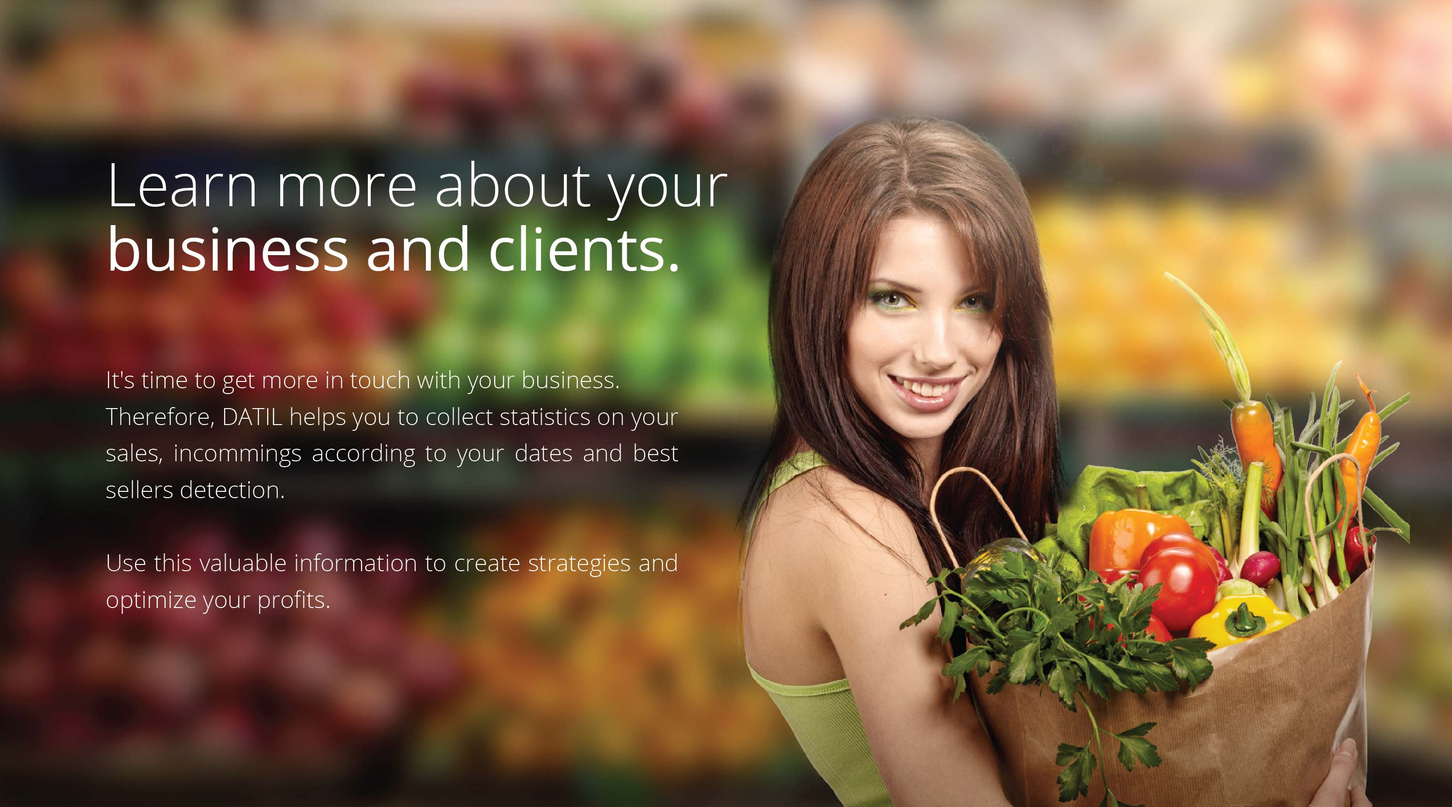
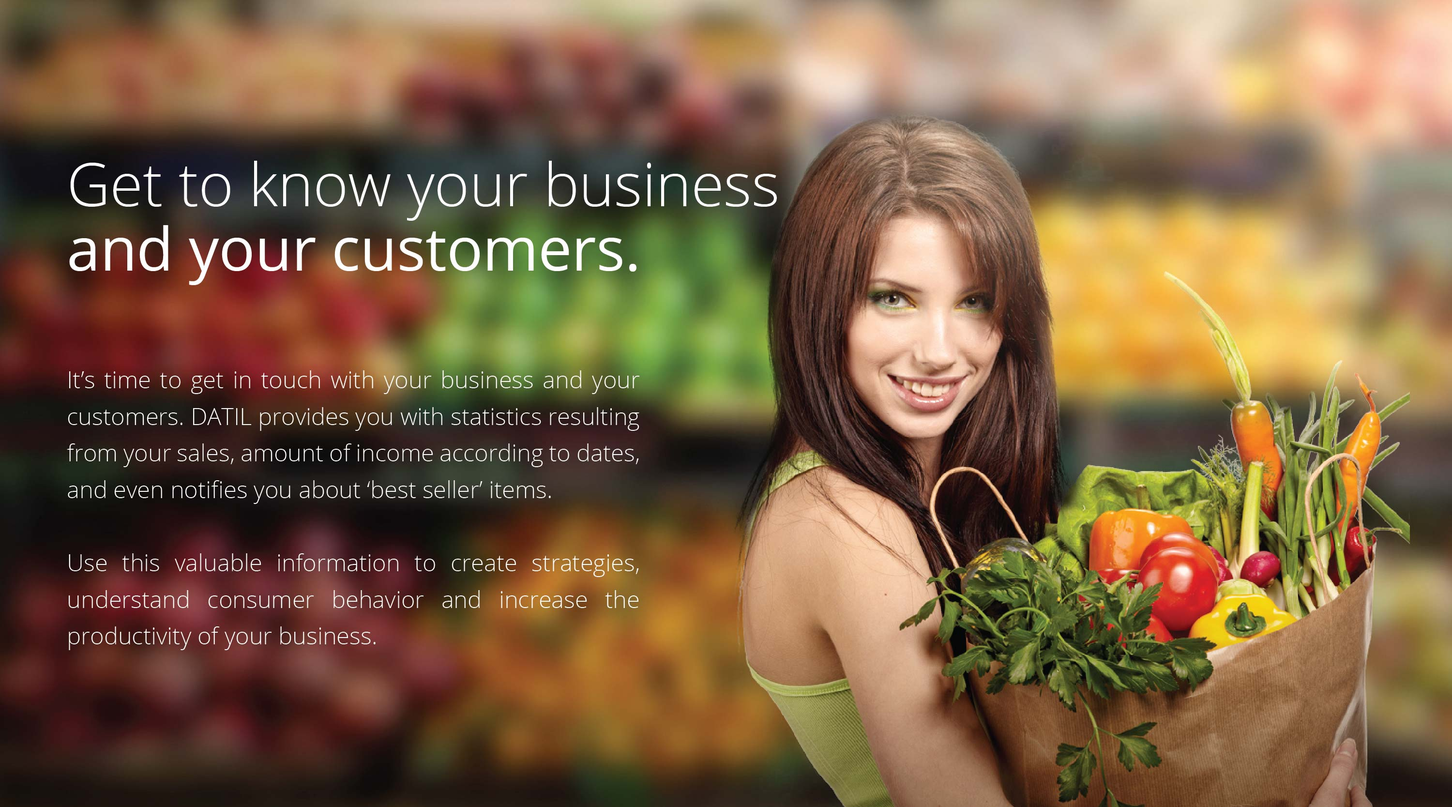
translations

diff --git a/public/en/index.html b/public/en/index.html
@@ -1,9 +1,9 @@
-<!DOCTYPE html> <html lang=en> <head> <meta charset=utf-8> <meta http-equiv=X-UA-Compatible content="IE=edge"> <meta name=viewport content="width=device-width,initial-scale=1,maximum-scale=1,user-scalable=no"> <meta name=description content="Dátil es la aplicación móvil de punto de venta que se adapta a tu modelo de negocio y te ayuda a incrementar la productividad desde el poder de tus dedos."> <meta name=keywords content="POS, dinero electrónico, facturación electrónica"> <meta name=author content=Datilmedia> <link rel=icon href=/c4b85505.favicon.ico> <link rel=apple-touch-icon-precomposed sizes=152x152 href=d6cbdb46.favicon152.png> <link rel=apple-touch-icon-precomposed sizes=144x144 href=309c4e23.favicon144.png> <link rel=apple-touch-icon-precomposed sizes=114x114 href=6b8e0709.favicon114.png> <link rel=apple-touch-icon-precomposed sizes=72x72 href=41bae59d.favicon72.png> <link rel=apple-touch-icon-precomposed href=e4ee2d5f.favicon.png> <title>Datil - POS for credit card payments, electronic invoices</title> <link rel=stylesheet href=styles/9c307a9d.vendor.css> <link rel=stylesheet href=styles/34619d56.main.css> <!-- Just for debugging purposes. Don't actually copy these 2 lines! --> <!--[if lt IE 9]><script src="scripts/ie8-responsive-file-warning.js"></script><![endif]--> <script src=scripts/5e4d24d2.ie.js></script> <!-- HTML5 shim and Respond.js IE8 support of HTML5 elements and media queries --> <!--[if lt IE 9]>
+<!DOCTYPE html> <html lang=en> <head> <meta charset=utf-8> <meta http-equiv=X-UA-Compatible content="IE=edge"> <meta name=viewport content="width=device-width,initial-scale=1,maximum-scale=1,user-scalable=no"> <meta name=description content="Dátil es la aplicación móvil de punto de venta que se adapta a tu modelo de negocio y te ayuda a incrementar la productividad desde el poder de tus dedos."> <meta name=keywords content="POS, dinero electrónico, facturación electrónica"> <meta name=author content=Datilmedia> <link rel=icon href=/c4b85505.favicon.ico> <link rel=apple-touch-icon-precomposed sizes=152x152 href=d6cbdb46.favicon152.png> <link rel=apple-touch-icon-precomposed sizes=144x144 href=309c4e23.favicon144.png> <link rel=apple-touch-icon-precomposed sizes=114x114 href=6b8e0709.favicon114.png> <link rel=apple-touch-icon-precomposed sizes=72x72 href=41bae59d.favicon72.png> <link rel=apple-touch-icon-precomposed href=e4ee2d5f.favicon.png> <title>Datil - Grow your business</title> <link rel=stylesheet href=styles/9c307a9d.vendor.css> <link rel=stylesheet href=styles/34619d56.main.css> <!-- Just for debugging purposes. Don't actually copy these 2 lines! --> <!--[if lt IE 9]><script src="scripts/ie8-responsive-file-warning.js"></script><![endif]--> <script src=scripts/5e4d24d2.ie.js></script> <!-- HTML5 shim and Respond.js IE8 support of HTML5 elements and media queries --> <!--[if lt IE 9]>
       <script src="https://oss.maxcdn.com/html5shiv/3.7.2/html5shiv.min.js"></script>
       <script src="https://oss.maxcdn.com/respond/1.4.2/respond.min.js"></script>
     <![endif]-->  <body> <!--[if lt IE 10]>
       <p class="browsehappy">You are using an <strong>outdated</strong> browser. Please <a href="http://browsehappy.com/">upgrade your browser</a> to improve your experience.</p>
-    <![endif]--> <div class="navbar navbar-default navbar-fixed-top nav-datil" role=navigation> <div class=container> <div class=navbar-header> <button type=button class="navbar-toggle collapsed" data-toggle=collapse data-target=.navbar-collapse> <span class=sr-only>Toggle navigation</span> <span class=icon-bar></span> <span class=icon-bar></span> <span class=icon-bar></span> </button> <img class=logo src=images/8d034bd5.logo.png alt=datil> </div> <div class="navbar-collapse collapse single-page-nav"> <ul class="nav navbar-nav navbar-right"> <li><a href="/?force=true" class=lan>Español</a></li> <li><a href=#content>Features</a></li> <li><a href=#datil-smartphone>Compatibility</a></li> <li><a href=#contacto>Contact</a></li> </ul> </div> </div> </div> <div class=jumbotron> <div class=container> <div class=row> <div class=col-md-5> </div> <div class="banner-text col-md-7"> <h1>Take your business</h1> <h1>to the next level</h1> <p>Dátil is a mobile point of sale that fits your business model and helps you to increase productivity from the power of your fingers.</p> </div> </div> </div> </div> <div id=content class="container text-center servicios"> <div class=row> <div class="col-md-3 col-sm-6"> <img src=images/services/cb87c014.icono_factura.png alt=""> <h3><strong>Billing and invoice</strong> electronically</h3> <hr> <p>Make and send invoices to your customers emails without printing.</p> </div> <div class="col-md-3 col-sm-6"> <img src=images/services/bde19334.icono_dinero_electronico.png alt=""> <h3><strong>More possibilities</strong> for your clients</h3> <hr> <p>Bill with cash, credit card or e-money from your mobile phone.</p> </div> <div class="col-md-3 col-sm-6"> <img src=images/services/bc3fea18.icono_listas_productos.png alt=""> <h3><strong>Take control</strong> of your products</h3> <hr> <p>Organize all your items in lists with price and tax details.</p> </div> <div class="col-md-3 col-sm-6"> <img src=images/services/e55f7bde.icono_estadisticas.png alt=""> <h3><strong>Learn more</strong> about your business</h3> <hr> <p>Get statistics and valuable information about your sales, products and customers.</p> </div> </div> </div> <div id=datil-ventas class=details> <div class=container> <div class=row> <div class="col-md-5 col-sm-5 col-md-push-7 text-justify"> <h2>Make your sales <strong>in a easier way.</strong></h2> <p>The application enables you to execute any product sale in easy steps that take just a few taps with your finger.</p> <p>Choose your products from your list, they will be stored in the shopping cart and confirm the sale with your customer with a payment method and presto!</p> <hr> </div> <div class="col-md-7 col-sm-7 col-md-pull-5"> <img class="img-responsive center-block" src=images/4e180064.mano_app_cobro.png> </div> </div> </div> </div> <div id=datil-facturas class="container details"> <div class=row> <div class="col-md-5 col-sm-5 text-justify"> <h2>Manage your invoices <strong>like never before</strong></h2> <p>DATIL has a electronic invoice system for a integral experience for your clients at shopping time.</p> <p>They will receive your invoices via email in a secure way and complying with the 'Servicio de Rentas Internas' requirements.</p> <hr> </div> <div class="col-md-7 col-sm-7"> <img class="img-responsive center-block" src=images/7834dd3d.factura_mail.png> </div> </div> </div> <div id=datil-clientes class=details> <div class=container> <div class=row> <div class="col-md-5 col-sm-5 col-md-push-7 text-justify"> <h2>More possibilities <strong>for your clients.</strong></h2> <p>Give your clients more alternatives at the payment process and they will have a lovely shopping experience. The platform allows you to make and register cash or credit card payments.</p> <p>Futhermore, we provide the new system for e-money payments powered by 'The Central Bank of Ecuador', a secure, easy-to-use and market-cheap payment method. Thus, your clients will have a bunch of payment options at shopping time.</p> <hr> </div> <div class="col-md-7 col-sm-7 col-md-pull-5"> <img class="img-responsive center-block" src=images/6aaef33c.clientes.png> </div> </div> </div> </div> <div id=datil-productos class="container details"> <div class=row> <div class="col-md-5 col-sm-5 text-justify"> <h2>Take total control <strong>of your products.</strong></h2> <p>Create an organized and detailed list of all your products to manage your business more easily and order.</p> <p>Add articles with name, color, price and a photo, then they will be quickly identified when you are making a sale.</p> <hr> </div> <div class="col-md-7 col-sm-7"> <img class="img-responsive center-block" src=images/51d9e543.pantalla_listas.png> </div> </div> </div> <div id=datil-clientes class="jumbotron hidden-xs"> <img class=img-responsive src=images/4b77f6f9.banner_cliente.jpg alt=""> </div> <div id=datil-smartphone class=details> <div class=container> <div class=row> <div class="col-md-5 col-sm-5 col-md-push-7 text-justify"> <h2>DATIL in my <strong>smartphone.</strong></h2> <p>Even the simpler smartphone has the possibility DATIL without any inconvenience.</p> <p>The application is developed to work in Android phones and coming soon to iOS and tablets.</p> <hr> </div> <div class="col-md-7 col-sm-7 col-md-pull-5"> <img class="img-responsive center-block" src=images/71fc4778.phone_compatibility.png> </div> </div> </div> </div> <div id=acerca> <div class="container text-center"> <div class="info center-block"> <h2>DATIL Experience</h2> <img src=images/64bba164.cuadros_testimonios.jpg alt="" class="img-responsive center-block"> </div> </div> </div> <div id=equipo> <div class="container text-center"> <h2>Meet the team behind DATIL</h2> <div class="row center-block people"> <div class="col-md-2 col-sm-2"></div> <div class="col-md-2 col-sm-2"> <img src=images/team/7e513cf5.Eduardo.jpg class="img-responsive center-block"> <h5>Eduardo Raad</h5> <h6>CEO</h6> </div> <div class="col-md-2 col-sm-2"> <img src=images/team/5584efde.Chalo.jpg class="img-responsive center-block"> <h5>Carlos Pareja</h5> <h6>COO</h6> </div> <div class="col-md-2 col-sm-2"> <img src=images/team/42431744.Juan_Antonio.jpg class="img-responsive center-block"> <h5>Juan Antonio Plaza</h5> <h6>CTO</h6> </div> <div class="col-md-2 col-sm-2"> <img src=images/team/e9e31a52.Andres.jpg class="img-responsive center-block"> <h5>Andrés Mesías</h5> <h6>CCO</h6> </div> <div class="col-md-2 col-sm-2"></div> </div> <div class="row center-block people"> <div class="col-md-1 col-sm-1"></div> <div class="col-md-2 col-sm-2"> <img src=images/team/b2af7d69.Melissa.jpg class="img-responsive center-block"> <h5>Melissa Castro</h5> <h6>Project Manager</h6> </div> <div class="col-md-2 col-sm-2"> <img src=images/team/a258e5b0.July.jpg class="img-responsive center-block"> <h5>Juliana Toala</h5> <h6>Operation Manager</h6> </div> <div class="col-md-2 col-sm-2"> <img src=images/team/d8900463.Alejo.jpg class="img-responsive center-block"> <h5>Alejandro Vinueza</h5> <h6>Software Engineer</h6> </div> <div class="col-md-2 col-sm-2"> <img src=images/team/2a54d757.Joseph.jpg class="img-responsive center-block"> <h5>Joseph León</h5> <h6>Software Engineer</h6> </div> <div class="col-md-2 col-sm-2"> <img src=images/team/d4b952ce.Carlos.jpg class="img-responsive center-block"> <h5>Carlos Minda</h5> <h6>Infrastructure Engineer</h6> </div> <div class="col-md-1 col-sm-1"></div> </div> <div class="row center-block about-datil"> <div class="col-md-6 col-sm-6"> <img src=images/809ac364.logo-footer.png class=img-responsive> </div> <div class="col-md-6 col-sm-6 text-justify"> <p>We are an ecuadorian company committed to the growth of the micro, small and medium enterprises by facilitating access to new payment methods and management tools.</p> </div> </div> <hr> </div> </div> <!-- Begin MailChimp Signup Form --> <div id=contacto class=container> <div class="row text-center"> <h3>Do you want to know more? Subscribe to our newsletter</h3> <h4>Don't worry, we won't send you spam!</h4> </div> <form action="//datil.us9.list-manage.com/subscribe/post?u=d97a77d468b8fc15e17172ae8&amp;id=a079067140" method=post id=mc-embedded-subscribe-form name=mc-embedded-subscribe-form class=validate target=_blank role=form novalidate> <div id=mc_embed_signup_scroll class="row form-group"> <div class="mc-field-group col-md-12 text-center"> <label for=mce-EMAIL>Email Address </label> <input type=email name=EMAIL class="required email" id=mce-EMAIL> <input type=submit value=Subscribe name=subscribe id=mc-embedded-subscribe class="button btn btn-datil"> </div> <div id=mce-responses class=clear> <div class=response id=mce-error-response style=display:none></div> <div class=response id=mce-success-response style=display:none></div> </div> <!-- real people should not fill this in and expect good things - do not remove this or risk form bot signups--> <div style="position: absolute; left: -5000px"><input name=b_d97a77d468b8fc15e17172ae8_a079067140 tabindex=-1></div> <div class=clear></div> </div> </form> </div> <!--End mc_embed_signup--> <footer> <div class=container> <div class=row> <div class="col-md-12 center-block text-center"> <h4>Contact</h4> <hr> </div> </div> <div class=row> <div class=col-md-6> <p>+593 - 4 - 6029400</p> <p>Víctor Emilio Estrada 112 y Circunvalación</p> <p>Norte, Edificio C3, Piso 2</p> <p><strong>Guayaquil - Ecuador</strong></p> </div> <div class="col-md-6 text-right"> <a href=#><img src=images/06131002.twitter-datil.png></a> <a href=https://www.facebook.com/datilmedia target=_blank><img src=images/d4f3fe2a.facebook-datil.png></a> <p>2014 DATIL</p> </div> </div> </div> </footer> <script src=scripts/db02b173.vendor.js></script> <!-- Google Analytics: change UA-XXXXX-X to be your site's ID. --> <script>(function(b,o,i,l,e,r){b.GoogleAnalyticsObject=l;b[l]||(b[l]=
+    <![endif]--> <div class="navbar navbar-default navbar-fixed-top nav-datil" role=navigation> <div class=container> <div class=navbar-header> <button type=button class="navbar-toggle collapsed" data-toggle=collapse data-target=.navbar-collapse> <span class=sr-only>Toggle navigation</span> <span class=icon-bar></span> <span class=icon-bar></span> <span class=icon-bar></span> </button> <img class=logo src=images/8d034bd5.logo.png alt=datil> </div> <div class="navbar-collapse collapse single-page-nav"> <ul class="nav navbar-nav navbar-right"> <li><a href="/?force=true" class=lan>Español</a></li> <li><a href=#content>Features</a></li> <li><a href=#datil-smartphone>Compatibility</a></li> <li><a href=#contacto>Contact</a></li> </ul> </div> </div> </div> <div class=jumbotron> <div class=container> <div class=row> <div class=col-md-5> </div> <div class="banner-text col-md-7"> <h1>Power-up your</h1> <h1>business now!</h1> <p>Meet the mobil ‘Point Of Sale’ app, ready to enhance your business in a glance. Start increasing your productivity today and take control from the palm of your hand.</p> </div> </div> </div> </div> <div id=content class="container text-center servicios"> <div class=row> <div class="col-md-3 col-sm-6"> <img src=images/services/cb87c014.icono_factura.png alt=""> <h3><strong>Payments and billing</strong> using your app</h3> <hr> <p>Manage billing through your phone and send invoices by e-mail without printing.</p> </div> <div class="col-md-3 col-sm-6"> <img src=images/services/bde19334.icono_dinero_electronico.png alt=""> <h3><strong>Customers seek</strong> for more possibilities</h3> <hr> <p>You’ll be able to charge your customers with cash, credit card or even e-money.</p> </div> <div class="col-md-3 col-sm-6"> <img src=images/services/bc3fea18.icono_listas_productos.png alt=""> <h3><strong>Absolut control</strong> of your products</h3> <hr> <p>Make a whole new organization of your productos by using lists with pricing and taxes.</p> </div> <div class="col-md-3 col-sm-6"> <img src=images/services/e55f7bde.icono_estadisticas.png alt=""> <h3><strong>Know your business</strong> even more</h3> <hr> <p>Obtain statistics and valuable information out your sales, about products and consumer behavior. </p> </div> </div> </div> <div id=datil-ventas class=details> <div class=container> <div class=row> <div class="col-md-5 col-sm-5 col-md-push-7 text-justify"> <h2>Simplify <strong>your sales.</strong></h2> <p>The application enables you to execute any product sale in easy steps that take just a few taps with your finger.</p> <p>Choose products from your list, add them to the basket button and then just charge your customer. That’s it!</p> <hr> </div> <div class="col-md-7 col-sm-7 col-md-pull-5"> <img class="img-responsive center-block" src=images/4e180064.mano_app_cobro.png> </div> </div> </div> </div> <div id=datil-facturas class="container details"> <div class=row> <div class="col-md-5 col-sm-5 text-justify"> <h2>Invoice your <strong>customers easily.</strong></h2> <p>Make government compliant invoices with a single tap. Just fill out the information and DATIL takes care of the rest.</p> <p>Your customers will receive their invoices and receipts through their e-mail account in a very secure way.</p> <hr> </div> <div class="col-md-7 col-sm-7"> <img class="img-responsive center-block" src=images/7834dd3d.factura_mail.png> </div> </div> </div> <div id=datil-clientes class=details> <div class=container> <div class=row> <div class="col-md-5 col-sm-5 col-md-push-7 text-justify"> <h2>More payment options <strong>for your clients.</strong></h2> <p>Give your customers the power to choose how they want to pay. Receive payments in a secure way using credit cards, cash and Ecuadorian e-Money.</p> <hr> </div> <div class="col-md-7 col-sm-7 col-md-pull-5"> <img class="img-responsive center-block" src=images/6aaef33c.clientes.png> </div> </div> </div> </div> <div id=datil-productos class="container details"> <div class=row> <div class="col-md-5 col-sm-5 text-justify"> <h2>Organize <strong>your products.</strong></h2> <p>Create an organized and detailed list of all your products.</p> <p>Add your items with name, price, color and photo to identify them quickly during a sale.</p> <hr> </div> <div class="col-md-7 col-sm-7"> <img class="img-responsive center-block" src=images/51d9e543.pantalla_listas.png> </div> </div> </div> <div id=datil-clientes class="jumbotron hidden-xs"> <img class=img-responsive src=images/3b921e80.banner_cliente.jpg alt=""> </div> <div id=datil-smartphone class=details> <div class=container> <div class=row> <div class="col-md-5 col-sm-5 col-md-push-7 text-justify"> <h2>My DATIL app<strong> everywhere.</strong></h2> <p>DATIL works in all Android phones and is designed to accept payments even if you have a slow data connection.</p> <p>iOS support for DATIL i cooming soon.</p> <hr> </div> <div class="col-md-7 col-sm-7 col-md-pull-5"> <img class="img-responsive center-block" src=images/71fc4778.phone_compatibility.png> </div> </div> </div> </div> <div id=acerca> <div class="container text-center"> <div class="info center-block"> <h2>DATIL Experience</h2> <img src=images/64bba164.cuadros_testimonios.jpg alt="" class="img-responsive center-block"> </div> </div> </div> <div id=equipo> <div class="container text-center"> <h2>Meet the team behind DATIL</h2> <div class="row center-block people"> <div class="col-md-2 col-sm-2"></div> <div class="col-md-2 col-sm-2"> <img src=images/team/7e513cf5.Eduardo.jpg class="img-responsive center-block"> <h5>Eduardo Raad</h5> <h6>CEO</h6> </div> <div class="col-md-2 col-sm-2"> <img src=images/team/5584efde.Chalo.jpg class="img-responsive center-block"> <h5>Carlos Pareja</h5> <h6>COO</h6> </div> <div class="col-md-2 col-sm-2"> <img src=images/team/42431744.Juan_Antonio.jpg class="img-responsive center-block"> <h5>Juan Antonio Plaza</h5> <h6>CTO</h6> </div> <div class="col-md-2 col-sm-2"> <img src=images/team/e9e31a52.Andres.jpg class="img-responsive center-block"> <h5>Andrés Mesías</h5> <h6>CCO</h6> </div> <div class="col-md-2 col-sm-2"></div> </div> <div class="row center-block people"> <div class="col-md-1 col-sm-1"></div> <div class="col-md-2 col-sm-2"> <img src=images/team/b2af7d69.Melissa.jpg class="img-responsive center-block"> <h5>Melissa Castro</h5> <h6>Project Manager</h6> </div> <div class="col-md-2 col-sm-2"> <img src=images/team/a258e5b0.July.jpg class="img-responsive center-block"> <h5>Juliana Toala</h5> <h6>Operation Manager</h6> </div> <div class="col-md-2 col-sm-2"> <img src=images/team/d8900463.Alejo.jpg class="img-responsive center-block"> <h5>Alejandro Vinueza</h5> <h6>Software Engineer</h6> </div> <div class="col-md-2 col-sm-2"> <img src=images/team/2a54d757.Joseph.jpg class="img-responsive center-block"> <h5>Joseph León</h5> <h6>Software Engineer</h6> </div> <div class="col-md-2 col-sm-2"> <img src=images/team/d4b952ce.Carlos.jpg class="img-responsive center-block"> <h5>Carlos Minda</h5> <h6>Infrastructure Engineer</h6> </div> <div class="col-md-1 col-sm-1"></div> </div> <div class="row center-block about-datil"> <div class="col-md-6 col-sm-6"> <img src=images/809ac364.logo-footer.png class=img-responsive> </div> <div class="col-md-6 col-sm-6 text-justify"> <p>We are an ecuadorian company committed to the growth of the micro, small and medium enterprises by facilitating access to new payment methods and management tools.</p> </div> </div> <hr> </div> </div> <!-- Begin MailChimp Signup Form --> <div id=contacto class=container> <div class="row text-center"> <h3>Do you want to know more? Subscribe to our newsletter</h3> <h4>Don't worry, we won't send you spam!</h4> </div> <form action="//datil.us9.list-manage.com/subscribe/post?u=d97a77d468b8fc15e17172ae8&amp;id=a079067140" method=post id=mc-embedded-subscribe-form name=mc-embedded-subscribe-form class=validate target=_blank role=form novalidate> <div id=mc_embed_signup_scroll class="row form-group"> <div class="mc-field-group col-md-12 text-center"> <label for=mce-EMAIL>Email Address </label> <input type=email name=EMAIL class="required email" id=mce-EMAIL> <input type=submit value=Subscribe name=subscribe id=mc-embedded-subscribe class="button btn btn-datil"> </div> <div id=mce-responses class=clear> <div class=response id=mce-error-response style=display:none></div> <div class=response id=mce-success-response style=display:none></div> </div> <!-- real people should not fill this in and expect good things - do not remove this or risk form bot signups--> <div style="position: absolute; left: -5000px"><input name=b_d97a77d468b8fc15e17172ae8_a079067140 tabindex=-1></div> <div class=clear></div> </div> </form> </div> <!--End mc_embed_signup--> <footer> <div class=container> <div class=row> <div class="col-md-12 center-block text-center"> <h4>Contact</h4> <hr> </div> </div> <div class=row> <div class=col-md-6> <p>+593 - 4 - 6029400</p> <p>Víctor Emilio Estrada 112 y Circunvalación</p> <p>Norte, Edificio C3, Piso 2</p> <p><strong>Guayaquil - Ecuador</strong></p> </div> <div class="col-md-6 text-right"> <a href=#><img src=images/06131002.twitter-datil.png></a> <a href=https://www.facebook.com/datilmedia target=_blank><img src=images/d4f3fe2a.facebook-datil.png></a> <p>2014 DATIL</p> </div> </div> </div> </footer> <script src=scripts/db02b173.vendor.js></script> <!-- Google Analytics: change UA-XXXXX-X to be your site's ID. --> <script>(function(b,o,i,l,e,r){b.GoogleAnalyticsObject=l;b[l]||(b[l]=
       function(){(b[l].q=b[l].q||[]).push(arguments)});b[l].l=+new Date;
       e=o.createElement(i);r=o.getElementsByTagName(i)[0];
       e.src='//www.google-analytics.com/analytics.js';

diff --git a/en/app/index.html b/en/app/index.html
@@ -16,7 +16,7 @@
     <link rel="apple-touch-icon-precomposed" sizes="72x72" href="favicon72.png">
     <link rel="apple-touch-icon-precomposed" href="favicon.png">
 
-    <title>Datil - POS for credit card payments, electronic invoices</title>
+    <title>Datil - Grow your business</title>
 
     <!-- build:css(.) styles/vendor.css -->
     <!-- bower:css -->
@@ -73,12 +73,11 @@
       <div class="container">
         <div class="row">
            <div class="col-md-5">
-            
            </div>
            <div class="banner-text col-md-7">
-              <h1>Take your business</h1>
-              <h1>to the next level</h1>
-              <p>Dátil is a mobile point of sale that fits your business model and helps you to increase productivity from the power of your fingers.</p> 
+              <h1>Power-up your</h1>
+              <h1>business now!</h1>
+              <p>Meet the mobil ‘Point Of Sale’ app, ready to enhance your business in a glance. Start increasing your productivity today and take control from the palm of your hand.</p> 
            </div>
         </div>
         
@@ -89,27 +88,27 @@
       <div class="row">
         <div class="col-md-3 col-sm-6">
           <img src="images/services/icono_factura.png" alt="">
-          <h3><strong>Billing and invoice</strong> electronically</h3>
+          <h3><strong>Payments and billing</strong> using your app</h3>
           <hr>
-          <p>Make and send invoices to your customers emails without printing.</p>
+          <p>Manage billing through your phone and send invoices by e-mail without printing.</p>
         </div>
         <div class="col-md-3 col-sm-6">
           <img src="images/services/icono_dinero_electronico.png" alt="">
-          <h3><strong>More possibilities</strong> for your clients</h3>
+          <h3><strong>Customers seek</strong> for more possibilities</h3>
           <hr>
-          <p>Bill with cash, credit card or e-money from your mobile phone.</p>
+          <p>You’ll be able to charge your customers with cash, credit card or even e-money.</p>
         </div>
         <div class="col-md-3 col-sm-6">
           <img src="images/services/icono_listas_productos.png" alt="">
-          <h3><strong>Take control</strong> of your products</h3>
+          <h3><strong>Absolut control</strong> of your products</h3>
           <hr>
-          <p>Organize all your items in lists with price and tax details.</p>
+          <p>Make a whole new organization of your productos by using lists with pricing and taxes.</p>
        </div>
         <div class="col-md-3 col-sm-6">
           <img src="images/services/icono_estadisticas.png" alt="">
-          <h3><strong>Learn more</strong> about your business</h3>
+          <h3><strong>Know your business</strong> even more</h3>
           <hr>
-          <p>Get statistics and valuable information about your sales, products and customers.</p>
+          <p>Obtain statistics and valuable information out your sales, about products and consumer behavior. </p>
         </div>
 
       </div>
@@ -119,9 +118,9 @@
     <div class="container">
       <div class="row">
         <div class="col-md-5 col-sm-5 col-md-push-7 text-justify">
-          <h2>Make your sales <strong>in a easier way.</strong></h2>
+          <h2>Simplify <strong>your sales.</strong></h2>
           <p>The application enables you to execute any product sale in easy steps that take just a few taps with your finger.</p>
-          <p>Choose your products from your list, they will be stored in the shopping cart and confirm the sale with your customer with a payment method and presto!</p>
+          <p>Choose products from your list, add them to the basket button and then just charge your customer. That’s it!</p>
           <hr>
         </div>
         <div class="col-md-7 col-sm-7 col-md-pull-5">
@@ -134,11 +133,10 @@
     <div id="datil-facturas" class="container details">
       <div class="row">
         <div class="col-md-5 col-sm-5 text-justify">
-          <h2>Manage your invoices <strong>like never before</strong></h2>
-          <p>DATIL has a electronic invoice system for a integral experience for your clients at shopping time.</p>
-          <p>They will receive your invoices via email in a secure way and complying with the 'Servicio de Rentas Internas' requirements.</p>
-          <hr>
-      
+          <h2>Invoice your <strong>customers easily.</strong></h2>
+          <p>Make government compliant invoices with a single tap. Just fill out the information and DATIL takes care of the rest.</p>
+          <p>Your customers will receive their invoices and receipts through their e-mail account in a very secure way.</p>
+          <hr>     
         </div>
         <div class="col-md-7 col-sm-7">
           <img class="img-responsive center-block" src="images/factura_mail.png">
@@ -150,9 +148,8 @@
     <div class="container">
       <div class="row">
         <div class="col-md-5 col-sm-5 col-md-push-7 text-justify">
-          <h2>More possibilities <strong>for your clients.</strong></h2>
-          <p>Give your clients more alternatives at the payment process and they will have a lovely shopping experience. The platform allows you to make and register cash or credit card payments.</p>
-          <p>Futhermore, we provide the new system for e-money payments powered by 'The Central Bank of Ecuador', a secure, easy-to-use and market-cheap payment method. Thus, your clients will have a bunch of payment options at shopping time.</p>
+          <h2>More payment options <strong>for your clients.</strong></h2>
+          <p>Give your customers the power to choose how they want to pay. Receive payments in a secure way using credit cards, cash and Ecuadorian e-Money.</p>
           <hr>
         </div>
         <div class="col-md-7 col-sm-7 col-md-pull-5">
@@ -165,9 +162,9 @@
     <div id="datil-productos" class="container details">
       <div class="row">
         <div class="col-md-5 col-sm-5 text-justify">
-          <h2>Take total control <strong>of your products.</strong></h2>
-          <p>Create an organized and detailed list of all your products to manage your business more easily and order.</p>
-          <p>Add articles with name, color, price and a photo, then they will be quickly identified when you are making a sale.</p>
+          <h2>Organize <strong>your products.</strong></h2>
+          <p>Create an organized and detailed list of all your products.</p>
+          <p>Add your items with name, price, color and photo to identify them quickly during a sale.</p>
           <hr>
        
         </div>
@@ -185,9 +182,9 @@
     <div class="container">
       <div class="row">
         <div class="col-md-5 col-sm-5 col-md-push-7 text-justify">
-          <h2>DATIL in my <strong>smartphone.</strong></h2>
-          <p>Even the simpler smartphone has the possibility DATIL without any inconvenience.</p>
-          <p>The application is developed to work in Android phones and coming soon to iOS and tablets.</p>
+          <h2>My DATIL app<strong> everywhere.</strong></h2>
+          <p>DATIL works in all Android phones and is designed to accept payments even if you have a slow data connection.</p>
+          <p>iOS support for DATIL i cooming soon.</p>
           <hr>
         </div>
         <div class="col-md-7 col-sm-7 col-md-pull-5">
